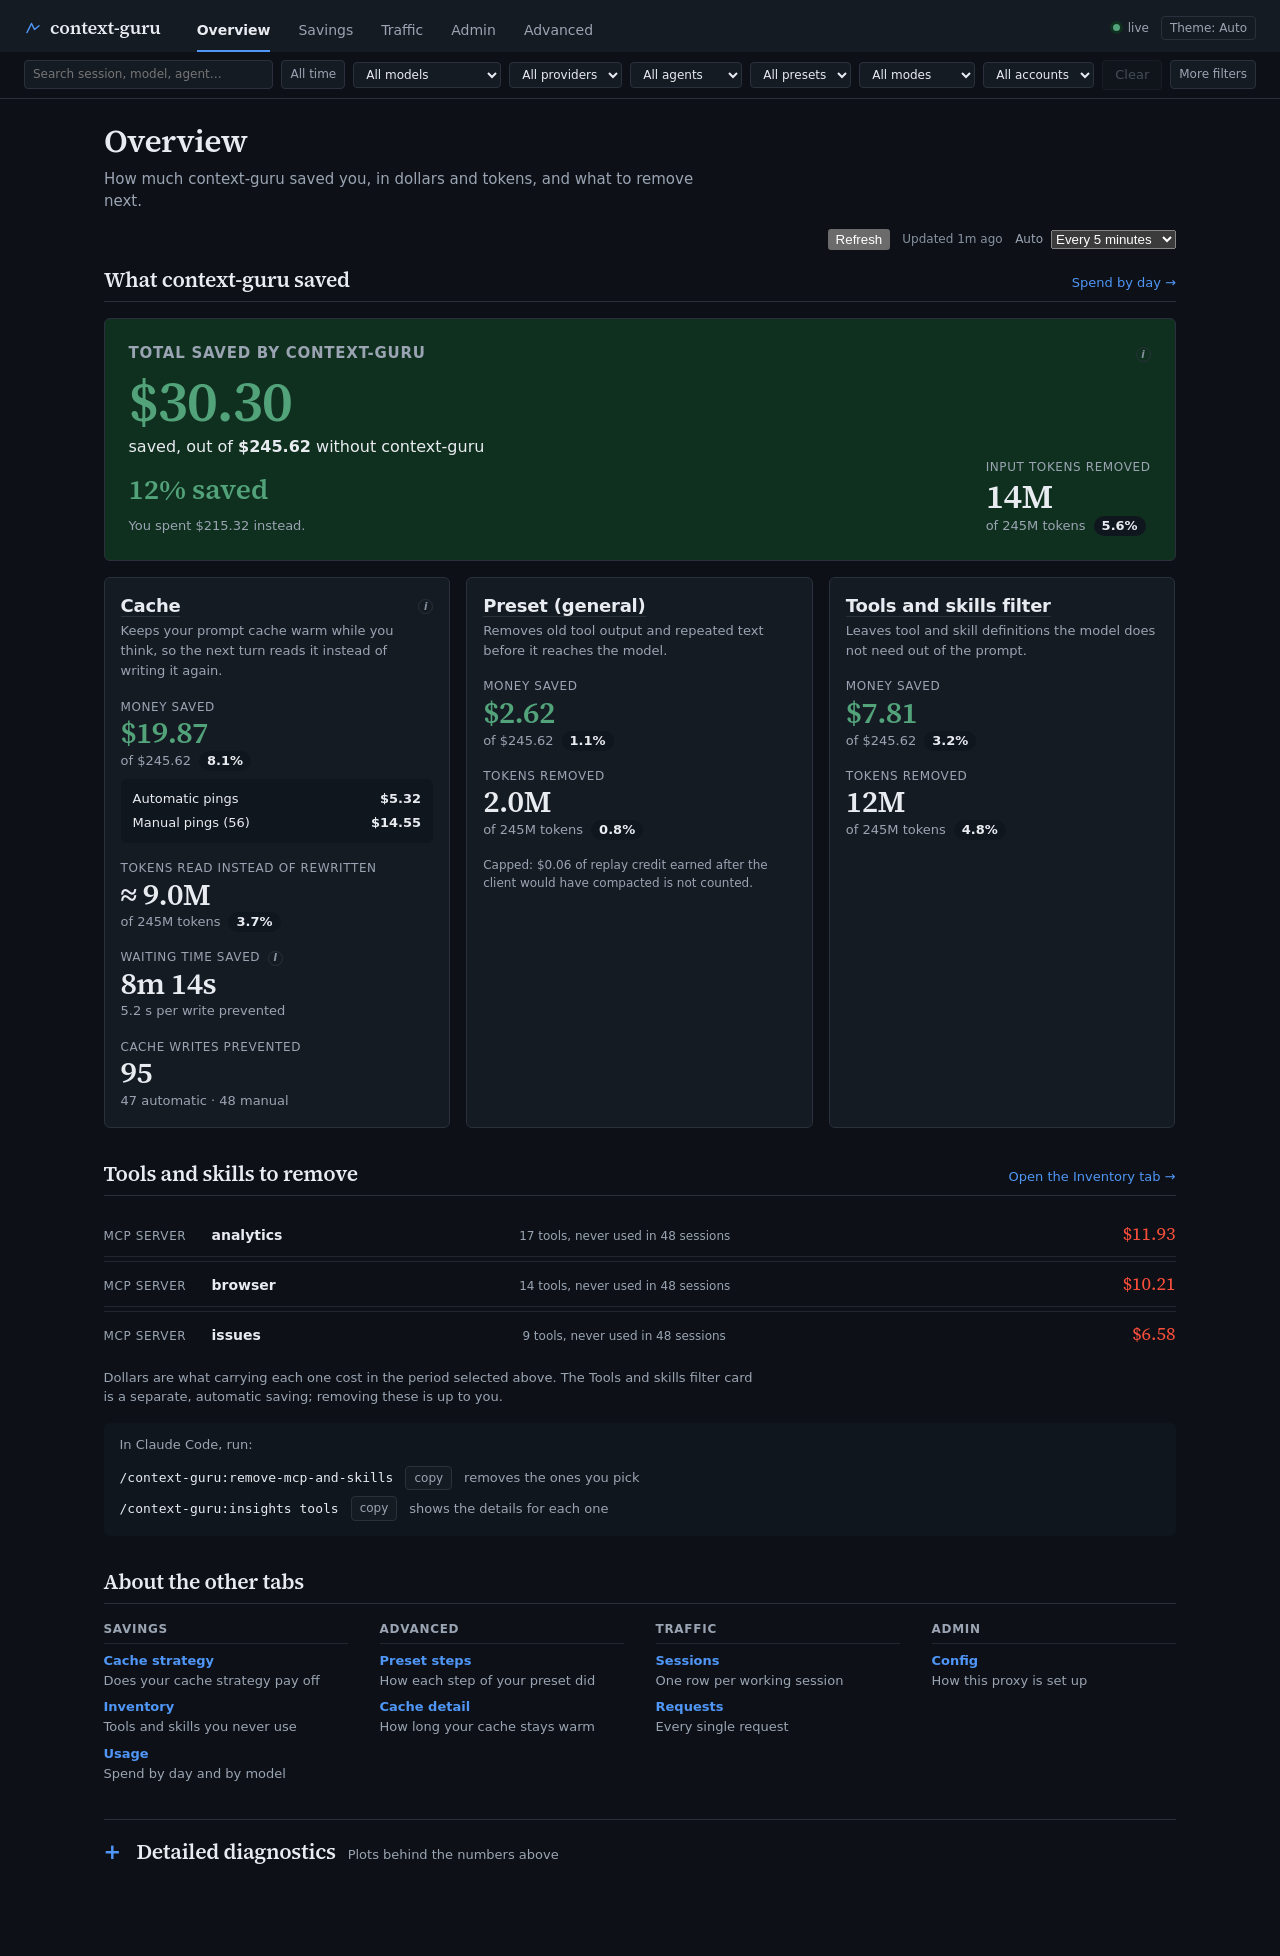
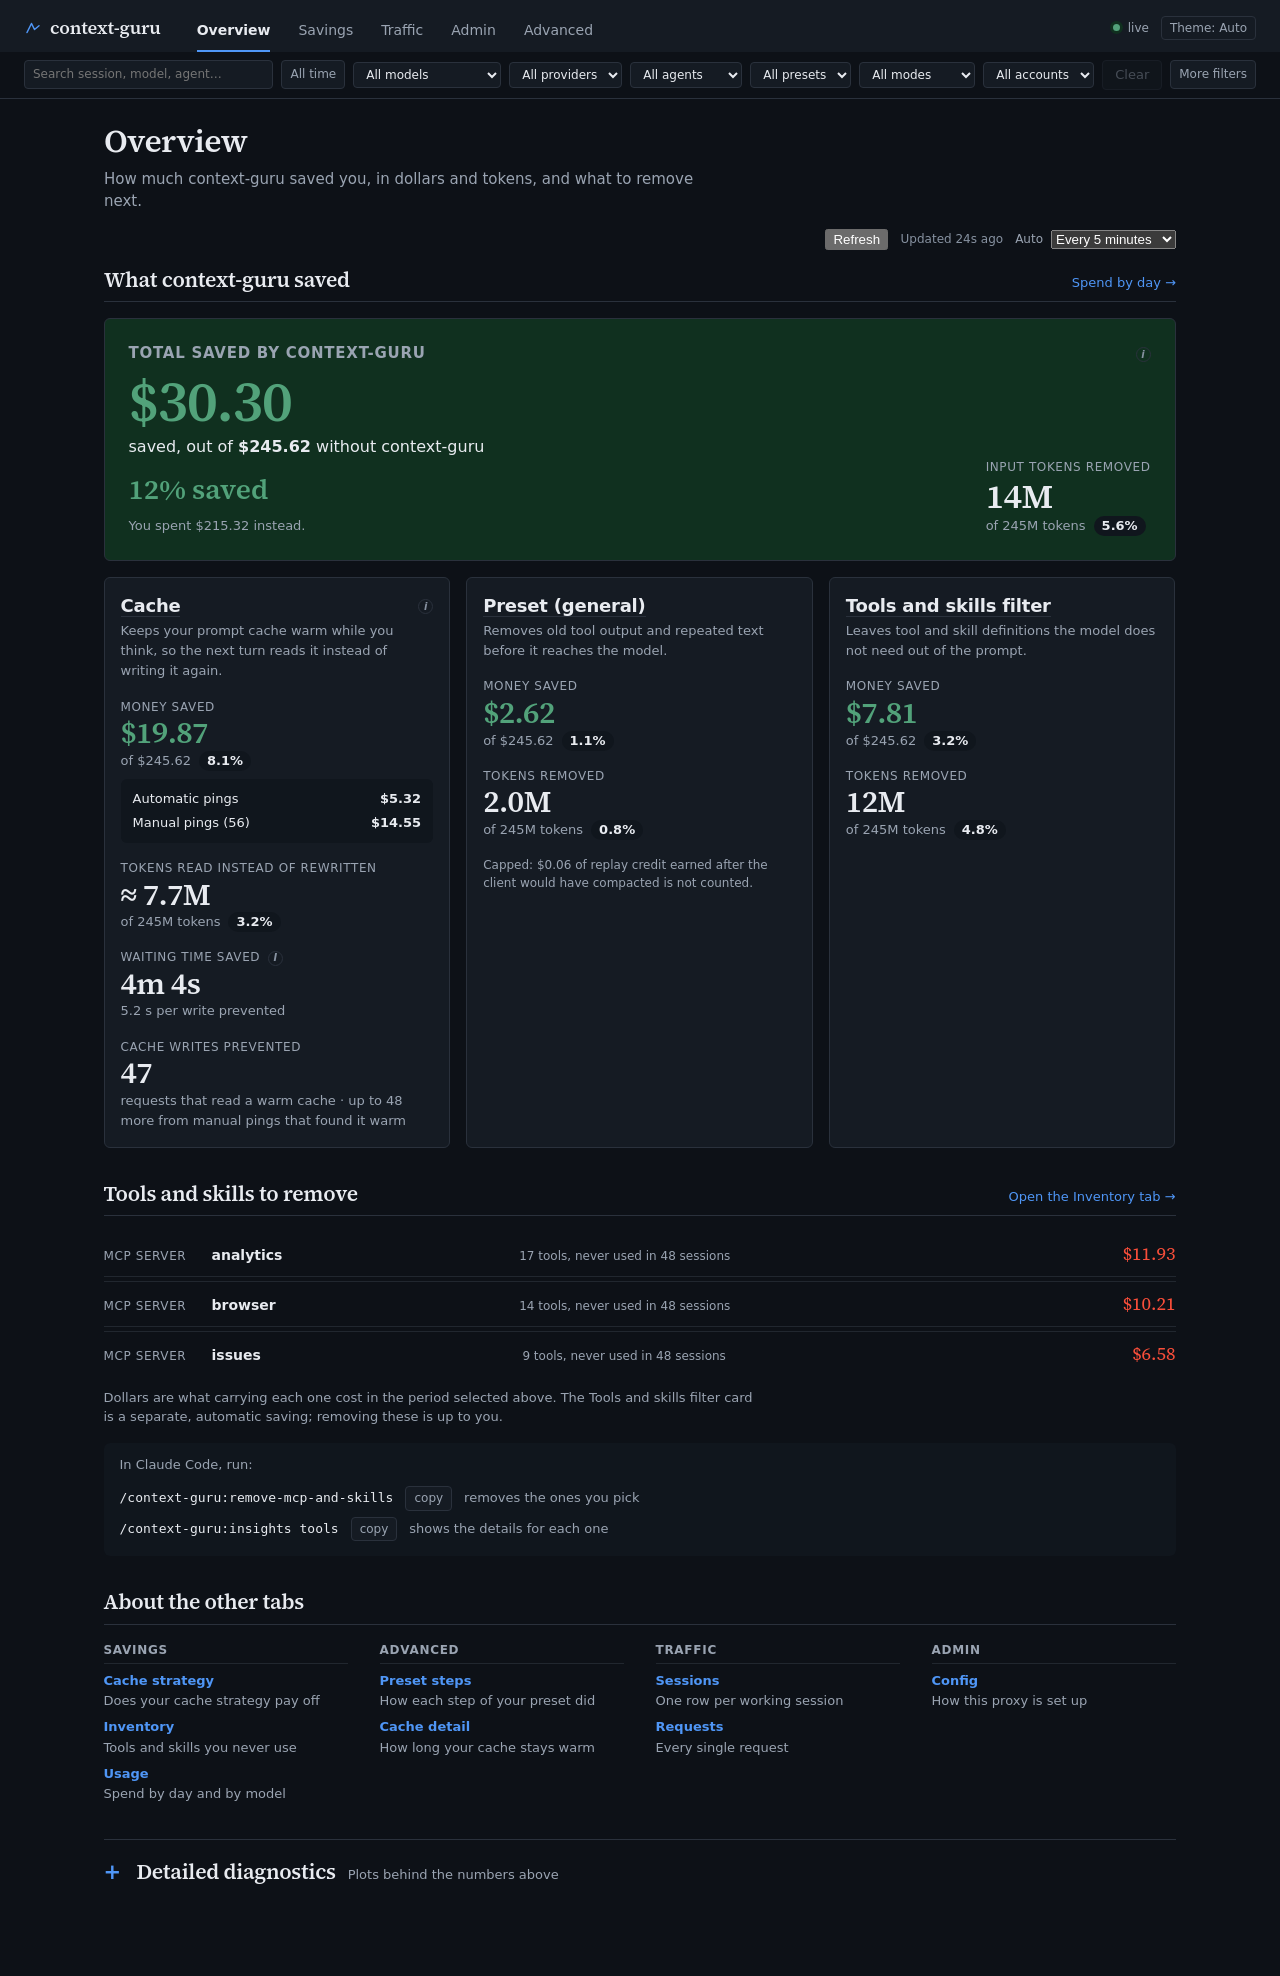
fix(dash): keep the Overview total back until the full read, and keep manual pings out of the waiting time
- The total card shows "Loading…" on the lean first paint. That read has
  no filter saving and no input-token columns, so its total, percent and
  token wholes were wrong (a preset could read "100%").
- Cache writes prevented and the waiting time count real requests only.
  Manual pings that found the cache warm show as "up to N more": a ping
  is not a request anyone waited on, and two presses can find one entry
  warm.
- writes_avoided counts cache_read > 0, and a test pins that a cold ping
  is not a write avoided.
- The cache token estimate uses the manual net, the same basis as the
  automatic credit.
- Docs, dead CSS and comments follow the new page.

Assisted-By: Claude Opus 5.5 (1M context) <noreply@anthropic.com>

diff --git a/dash/ui/app.js b/dash/ui/app.js
@@ -1722,12 +1722,19 @@ function renderSavedLedger(o, ka, partial) {
   // and the write premium taken as 1.15x input (1.25 write less 0.10 read). Shown with "≈".
   const providerSaved = o.cache_saved_usd || 0;
   const inPrice = o.cache_read > 0 && providerSaved > 0 ? providerSaved / (0.9 * o.cache_read) : 0;
-  const cacheGross = (o.keepalive_saved_usd || 0) + (mp.saved_usd || 0) + (mp.ping_usd || 0);
+  // Both halves are write-minus-read: the automatic credit is stored that way, and the manual net
+  // (the avoided write less the ping, which is a read) is the same difference.
+  const cacheGross = (o.keepalive_saved_usd || 0) + (mp.saved_usd || 0);
   const cacheTok = inPrice > 0 && cacheGross > 0 ? cacheGross / (1.15 * inPrice) : null;
-  const writes = writesPrevented(o);
+  // Writes prevented and the waiting time count REAL requests that read a cache that would have
+  // expired. A manual ping is not a request anyone waited on, so it is shown beside, as "up to".
+  const w = writesPrevented(o);
   const lat = ka && ka.latency;
   const latKnown = !!(lat && lat.known && lat.per_miss_ms > 0);
-  const waited = latKnown && writes > 0 ? lat.per_miss_ms * writes : null;
+  const waited = latKnown && w.requests > 0 ? lat.per_miss_ms * w.requests : null;
+  // The lean first read carries the money of the cache and the preset, but not the filter or the
+  // input-token columns. Until the full read lands, nothing that needs them is drawn.
+  const ready = priced && !partial;
 
   // ── The total ──
   const totalTok = presetTok + filterTok;
@@ -1740,7 +1747,7 @@ function renderSavedLedger(o, ka, partial) {
         '"Without context-guru" is what you spent plus what was saved. The percent is the saved share of that.',
         'The provider’s own cache discount is not counted. You get it with or without context-guru.',
       ])),
-    !priced
+    !ready
       ? el('p', { class: 'ov-none', text: partial ? 'Loading…' : 'Nothing priced yet in this period.' })
       : el('div', { class: 'ov-hero-body' },
         el('div', { class: 'ov-hero-money' },
@@ -1757,7 +1764,8 @@ function renderSavedLedger(o, ka, partial) {
   // ── One card per part ──
   const money = (tid, v, ran) => !ran ? el('p', { class: 'ov-none', text: 'Nothing saved yet in this period.' })
     : !priced ? el('p', { class: 'ov-none', text: 'Not priced yet.' })
-      : ovFigure(tid, 'Money saved', usd(v), 'of ' + usd(t.without), share(v, t.without), v < 0 ? 'neg' : 'good');
+      // The "of" and the percent wait for the full read: the whole is not known before it.
+      : ovFigure(tid, 'Money saved', usd(v), ready ? 'of ' + usd(t.without) : 'Loading…', ready ? share(v, t.without) : '', v < 0 ? 'neg' : 'good');
   const card = (id, tid, title, href, what, kids, info) => el('section', { class: 'ov-card', 'data-lever': id, 'data-testid': tid },
     el('div', { class: 'ov-card-head' },
       el('h3', {}, el('a', { href, title: 'Open the tab for ' + title }, title)), info || null),
@@ -1778,7 +1786,7 @@ function renderSavedLedger(o, ka, partial) {
     [
       money('saved-cache-usd', cacheUSD, cacheRan),
       cacheRan && priced ? brk : null,
-      cacheRan ? ovFigure('saved-cache-tokens', 'Tokens read instead of rewritten',
+      cacheRan && ready ? ovFigure('saved-cache-tokens', 'Tokens read instead of rewritten',
         cacheTok === null ? '—' : '≈ ' + compact(cacheTok), 'of ' + compact(inputWithout) + ' tokens',
         cacheTok === null ? '' : share(cacheTok, inputWithout)) : null,
       cacheRan ? el('div', { class: 'ov-fig', 'data-testid': 'saved-cache-latency' },
@@ -1786,13 +1794,14 @@ function renderSavedLedger(o, ka, partial) {
           'A request that must write the cache again is slower than one that reads it.',
           'We measure the gap on your own traffic in this period: the average time of large requests (100k+ tokens) that read the cache, against those that wrote it.'
             + (latKnown ? ' Here: ' + waitText(lat.miss_mean_ms) + ' for a write, ' + waitText(lat.hit_mean_ms) + ' for a read, so ' + waitText(lat.per_miss_ms) + ' saved each time.' : ''),
-          'Waiting time saved = that gap × the cache writes prevented.',
+          'Waiting time saved = that gap × the cache writes prevented: real requests that read a cache that would otherwise have expired.',
+          'Manual pings are not counted here. A ping is not a request you waited on.',
           'We need at least 20 requests of each kind to measure it. With fewer, it shows "—".',
         ])),
         el('div', { class: 'ov-fig-v', text: waited === null ? '—' : waitText(waited) }),
         el('div', { class: 'ov-fig-of', text: latKnown ? waitText(lat.per_miss_ms) + ' per write prevented' : !ka ? 'Measuring…' : 'not enough requests to measure yet' })) : null,
-      cacheRan ? ovFigure('saved-cache-writes', 'Cache writes prevented', num(writes),
-        num(o.keepalive_misses_avoided || 0) + ' automatic · ' + num(mp.writes_avoided || 0) + ' manual', '') : null,
+      cacheRan ? ovFigure('saved-cache-writes', 'Cache writes prevented', num(w.requests),
+        'requests that read a warm cache' + (w.manual ? ' · up to ' + num(w.manual) + ' more from manual pings that found it warm' : ''), '') : null,
     ],
     infoButton('cache', 'Cache', [
       'Automatic pings: context-guru sends a small request before the cache expires. Saved = the cache writes it prevented, less the cost of the pings.',
@@ -1806,7 +1815,7 @@ function renderSavedLedger(o, ka, partial) {
     'Removes old tool output and repeated text before it reaches the model.',
     [
       money('saved-compaction-usd', parts.compaction, o.requests > 0),
-      o.requests > 0 ? ovFigure('saved-compaction-tokens', 'Tokens removed', compact(presetTok),
+      o.requests > 0 && !partial ? ovFigure('saved-compaction-tokens', 'Tokens removed', compact(presetTok),
         'of ' + compact(inputWithout) + ' tokens', share(presetTok, inputWithout)) : null,
       capNote(o, usd) ? el('p', { class: 'ov-none ov-small', 'data-testid': 'replay-capped', text: capNote(o, usd) }) : null,
     ]));

diff --git a/dash/ui/savings.js b/dash/ui/savings.js
@@ -1,4 +1,4 @@
-// The Overview's three savings as plain numbers: no DOM, so dash/savings.test.mjs can check that they
+// The Overview's savings as plain numbers: no DOM, so dash/savings.test.mjs can check that they
 // add up to the server's own total_saved_usd.
 //
 //   cache       keep-alive's net (an upper bound) plus the cache-reorder credit (what moving the stable part
@@ -32,10 +32,12 @@ function overviewTotals(o) {
   return { saved: p.total, spent, without, pct: share(p.total), share, parts: p };
 }
 
-// The cache writes context-guru prevented: real requests that resumed after the cache would have
-// expired and read it anyway (automatic pings), plus the user's own pings that found it warm.
+// The cache writes context-guru prevented. `requests` is real requests that resumed after the cache
+// would have expired and read it anyway: a measured count, and what the waiting time multiplies.
+// `manual` is the user's own pings that found the cache warm. A ping is not a request anyone waited
+// on, and a later ping can find the same entry warm, so it is an upper bound and kept apart.
 function writesPrevented(o) {
-  return (o.keepalive_misses_avoided || 0) + ((o.manual_pings && o.manual_pings.writes_avoided) || 0);
+  return { requests: o.keepalive_misses_avoided || 0, manual: (o.manual_pings && o.manual_pings.writes_avoided) || 0 };
 }
 
 // The note under "Your preset" when the replay cap changed the figure, or could not be applied.

diff --git a/dash/ui/style.css b/dash/ui/style.css
@@ -1591,7 +1591,7 @@ main { max-width: 1120px; padding: var(--sp-5) var(--sp-5) 72px; }
 .ov-info { margin-top: 0; padding-top: 0; }
 .ov-info[open] { flex-basis: 100%; }
 .ov-fig-k .ov-info[open] .tile-why-body { text-transform: none; letter-spacing: normal; }
-.ov-foot { margin-top: var(--sp-3); max-width: 80ch; }
+
 
 /* tools and skills to remove */
 .reco-list { list-style: none; margin: 0; padding: 0; }
@@ -1789,8 +1789,6 @@ details.inv-details > summary { font-family: var(--serif); font-size: 17px; font
 @keyframes plot-grow { from { transform: scaleY(0); } to { transform: none; } }
 @media (prefers-reduced-motion: reduce) { .plot-line, .plot-col { animation: none; } .dv-bar { transition: none; } }
 
-/* an upper bound is drawn as a possibility, not as money in the bank */
-
 /* ═══ components ═══ */
 [data-testid=components-table] td:first-child .hint { margin: 0; max-width: 34ch; white-space: normal; }
 [data-testid=components-table] td:first-child strong { font-weight: 600; }
@@ -1813,5 +1811,4 @@ details.inv-details > summary { font-family: var(--serif); font-size: 17px; font
 #strategy-form #sf-target-ids { height: auto; max-width: 28rem; }
 #strategy-form fieldset.field > label:last-of-type { display: flex; flex-direction: column; gap: var(--sp-2); }
 
-/* the cache row's parts and the section total */
 

diff --git a/dash/manualping_test.go b/dash/manualping_test.go
@@ -68,7 +68,7 @@ func TestStatsReportsManualPingsApartFromTheKeepAlive(t *testing.T) {
 				t.Errorf("manual_pings = %v, want count 2, ping_usd 0.02, saved_usd 0.18 (net of the pings)", mp)
 			}
 			if mp["writes_avoided"].(float64) != 2 {
-				t.Errorf("manual_pings.writes_avoided = %v, want 2: both pings avoided a write", mp["writes_avoided"])
+				t.Errorf("manual_pings.writes_avoided = %v, want 2: both pings found the cache warm", mp["writes_avoided"])
 			}
 			if body["keepalive_pings"].(float64) != 1 || !near(body["keepalive_ping_usd"].(float64), 0.02) {
 				t.Errorf("the automatic keep-alive ledger counted manual pings: pings %v usd %v",
@@ -79,6 +79,22 @@ func TestStatsReportsManualPingsApartFromTheKeepAlive(t *testing.T) {
 				t.Errorf("total_saved_usd = %v, want 0.17", got)
 			}
 		})
+	}
+}
+
+// A manual ping that found the cache cold wrote it instead of reading it. It is not a write avoided.
+func TestManualPingThatMissedIsNoWriteAvoided(t *testing.T) {
+	a, rec := newTestAPI(t, Options{})
+	now := time.Now().UnixMilli()
+	cold := manualRow(now-30_000, "s1", 0.05, 0)
+	cold.CacheRead, cold.CacheWrite = 0, 5000
+	seed(t, rec, manualRow(now-40_000, "s1", 0.01, 0.15), cold)
+	for _, path := range []string{"/api/stats?session=s1", "/api/stats?lean=1&session=s1"} {
+		_, body := get(t, a, path, "")
+		mp := body["manual_pings"].(map[string]any)
+		if mp["count"].(float64) != 2 || mp["writes_avoided"].(float64) != 1 {
+			t.Errorf("%s: manual_pings = %v, want count 2 and writes_avoided 1 (the cold ping wrote)", path, mp)
+		}
 	}
 }
 

diff --git a/dash/manualping.go b/dash/manualping.go
@@ -9,8 +9,9 @@ package dash
 // instead). So it is the figure that joins total_saved_usd, and PingUSD is shown beside it for the
 // reader, not to be subtracted again.
 //
-// WritesAvoided is how many of the pings found the cache still warm, so the next turn read it
-// instead of writing it again. The Overview multiplies it by the measured write-vs-read time.
+// WritesAvoided is how many of the pings found the cache still warm (read it). It counts pings, not
+// later requests: two presses in one cache lifetime both count, so the Overview shows it as an
+// upper bound, apart from the measured count of requests.
 type ManualPings struct {
 	Count         int64   `json:"count"`
 	PingUSD       float64 `json:"ping_usd"`
@@ -44,4 +45,4 @@ const manualPing = `r.keepalive = 1 AND r.manual_ping = 1`
 const manualSelect = `COALESCE(SUM(CASE WHEN ` + manualPing + ` THEN 1 ELSE 0 END),0),
 			COALESCE(SUM(CASE WHEN ` + manualPing + ` THEN r.cost_usd ELSE 0 END),0),
 			COALESCE(SUM(CASE WHEN ` + manualPing + ` THEN r.manual_saved_usd ELSE 0 END),0),
-			COALESCE(SUM(CASE WHEN ` + manualPing + ` AND r.manual_saved_usd > 0 THEN 1 ELSE 0 END),0)`
+			COALESCE(SUM(CASE WHEN ` + manualPing + ` AND r.cache_read > 0 THEN 1 ELSE 0 END),0)`

diff --git a/dash/savingsparts_test.go b/dash/savingsparts_test.go
@@ -6,7 +6,7 @@ import (
 	"testing"
 )
 
-// TestSavingsPartsAddUp runs savings.test.mjs: the Overview's three rows must sum to total_saved_usd.
+// TestSavingsPartsAddUp runs savings.test.mjs: the Overview's parts must sum to total_saved_usd.
 func TestSavingsPartsAddUp(t *testing.T) {
 	node, err := exec.LookPath("node")
 	if err != nil {

diff --git a/docs/how-to/dashboard-guide.md b/docs/how-to/dashboard-guide.md
@@ -25,14 +25,14 @@ tab's title says so. The sample data on these screenshots is invented (`scripts/
 
     ![The Overview tab, dark theme](../img/dashboard/overview-dark.png)
 
-**Total saved by context-guru.** One big number: the sum of every part below. Under it:
+**Total saved by context-guru.** One big number: the sum of every part below. It appears when the full figures have loaded; before that the card says "Loading…". Under it:
 
 - **Out of what.** "$30.30 saved, out of $245.62 without context-guru". *Without context-guru* is what you spent plus what was saved.
 - **The percent.** The saved share of that figure, for example **12% saved**.
 - **What you spent instead.** What the provider billed, plus our own model calls and pings.
 - **Input tokens removed.** The tokens your preset and the filter took out, out of all the input tokens the same traffic would have sent, with a percent.
 
-The "i" next to the title says how the total is added up. Every part is already net of what context-guru spent to make it. The provider's own cache discount is not counted: you get it with or without context-guru.
+The "i" next to the title says how the total is added up. Every part is already net of what context-guru spent to make it. The cache part is the most it could have saved (another session can keep the same cache warm); the preset and filter parts are estimates. The provider's own cache discount is not counted: you get it with or without context-guru.
 
 **One card for each part.** Each card shows the **money saved**, out of the same "without context-guru" figure, with its percent. The percents of the three cards add up to the total's percent. Each card also shows the **tokens** it saved, out of all input tokens, with a percent. Click a card's title to open its tab.
 
@@ -40,15 +40,15 @@ The "i" next to the title says how the total is added up. Every part is already 
     - **Automatic vs manual pings.** A small breakdown: what the automatic pings (your cache strategy) saved, and what your own presses of the Ping button saved. A *cache reorder* line shows when that step also earned money.
     - **Tokens read instead of rewritten.** About how many tokens were read from the cache at the cheap rate instead of being written again. Shown with "≈" because it is worked out from the dollars.
     - **Waiting time saved.** How much time you did not wait because the cache was still warm. The "i" next to it explains the calculation (see below).
-    - **Cache writes prevented.** How many times a request read a warm cache instead of writing it again, split into automatic and manual.
+    - **Cache writes prevented.** How many real requests read a cache that would have expired without context-guru. Under it, "up to N more" counts your manual pings that found the cache warm. A ping is not a request you waited on, and two presses can find the same cache warm, so that part is an upper bound.
 - **Preset.** Removes old tool output and repeated text before it reaches the model. The card title carries the name of your preset.
 - **Tools and skills filter.** Leaves the tool and skill definitions the model does not need out of the prompt.
 
 **How the waiting time is worked out.** A request that must write the cache again is slower than a request that reads it.
 
 1. The dashboard takes the large requests (100,000 tokens or more) in the selected period. Large requests are used because small ones vary too much for a fair comparison.
-2. It averages the time of the requests that read the cache, and of those that wrote it. On the screenshot: 12.2 s for a write and 7.0 s for a read, so **5.2 s** saved each time.
-3. Waiting time saved = that gap × the cache writes prevented.
+2. It averages the time of the requests that read the cache, and of those that wrote it. On the screenshot: 12.2 s for a write and 7.0 s for a read, so **5.2 s** saved each time, × 47 requests = about 4 minutes.
+3. Waiting time saved = that gap × the cache writes prevented. Only real requests count. Manual pings do not, because nobody waited on a ping.
 4. It needs at least 20 requests of each kind. With fewer, it shows "—" and says it cannot measure it yet.
 
 ![The Overview with the waiting-time explanation open](../img/dashboard/overview-info-light.png)

diff --git a/docs/dashboard.md b/docs/dashboard.md
@@ -164,7 +164,7 @@ header when `ANTHROPIC_CUSTOM_HEADERS` in its settings `env` contains `x-context
 per line when there are several headers). The proxy never forwards it upstream.
 
 Its row is a keep-alive row with `manual_ping` set. `GET /api/stats` reports these rows as
-`manual_pings` (`count`, `ping_usd`, and `saved_usd` net of the pings' cost). They are a savings
+`manual_pings` (`count`, `ping_usd`, `saved_usd` net of the pings' cost, and `writes_avoided`: the pings that found the cache warm). They are a savings
 category of their own: they join `total_saved_usd`, and no cache strategy's ledger counts them.
 The figure is an upper bound. A press needs the proxy to hold the thread for keep-alive, so with
 automatic pings on it can overlap the keep-alive credit for the same avoided write. `saved_usd` is
